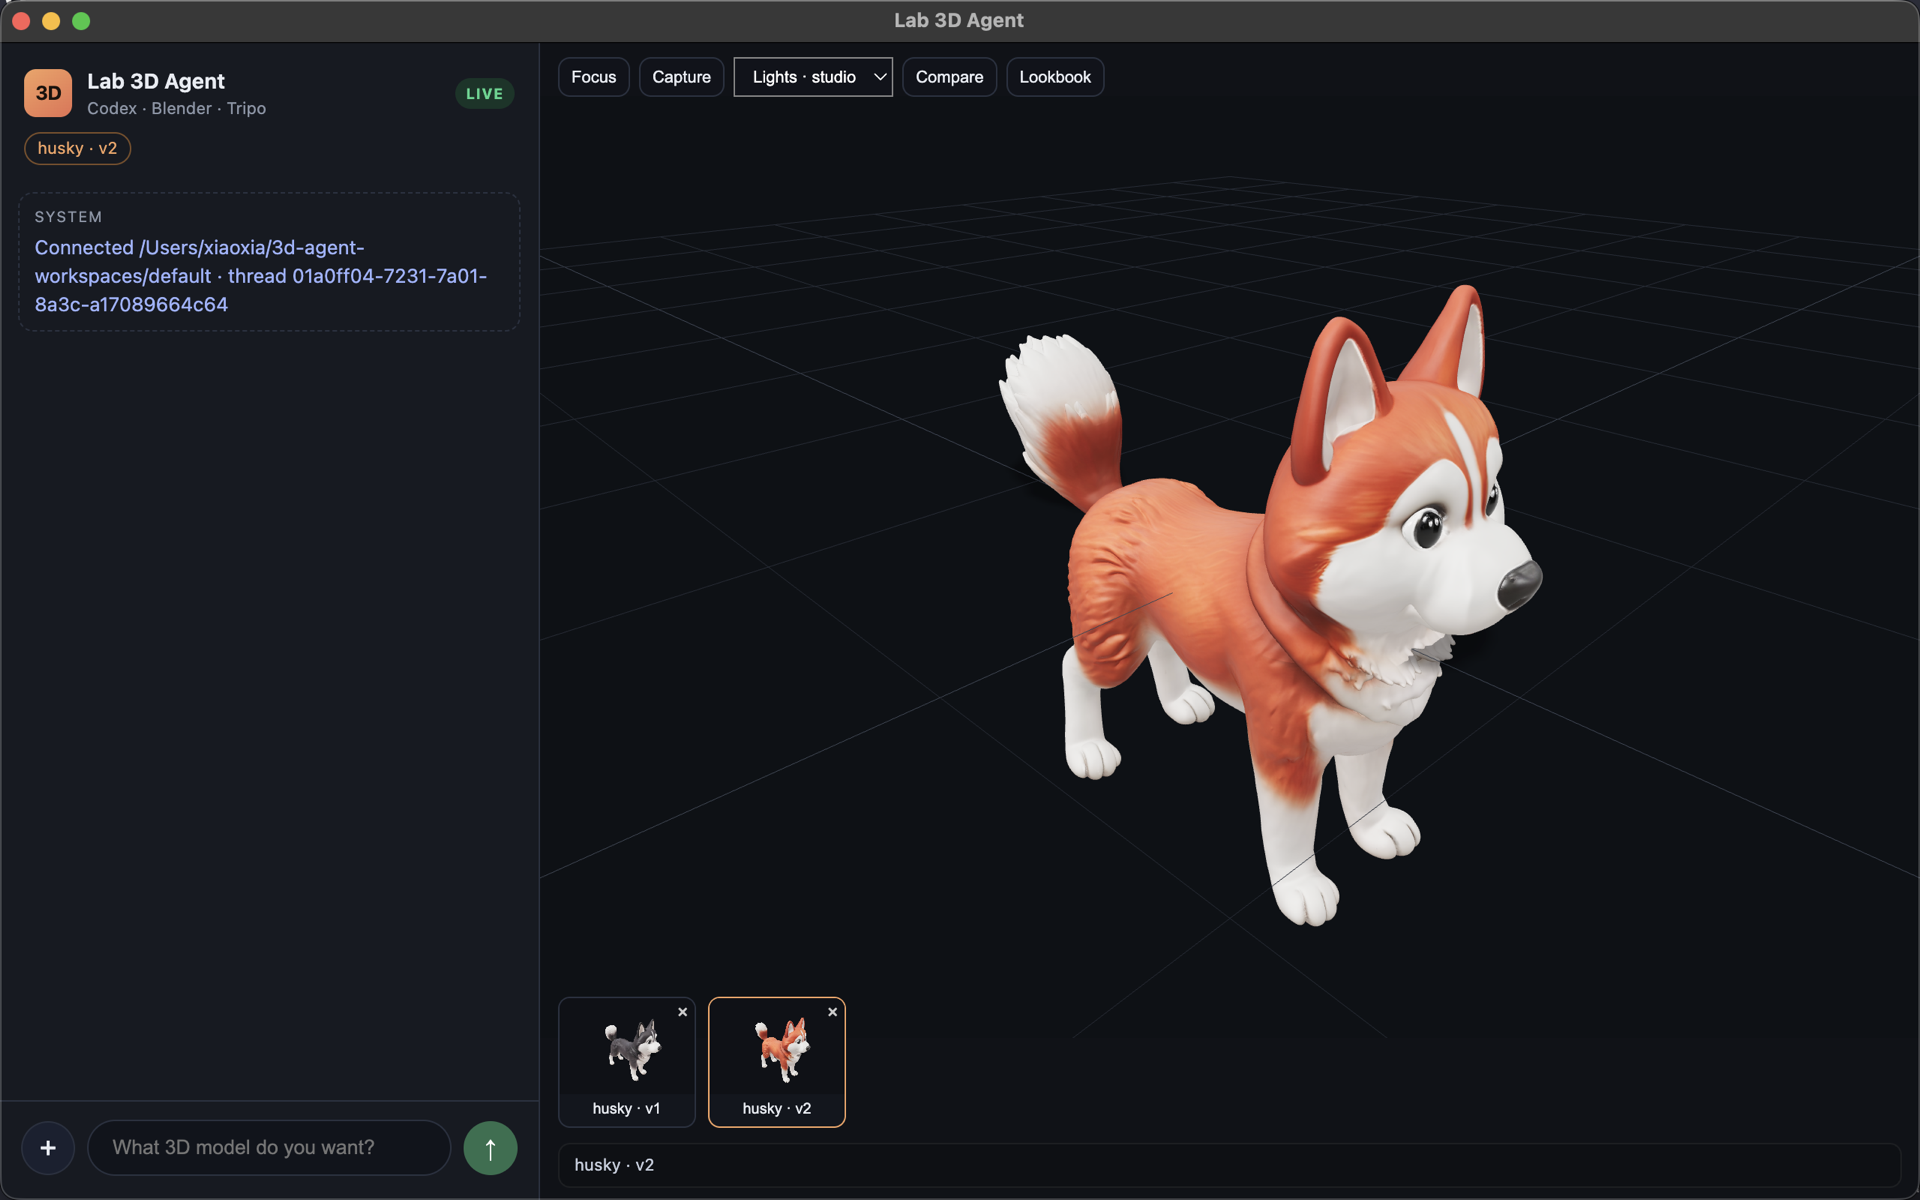
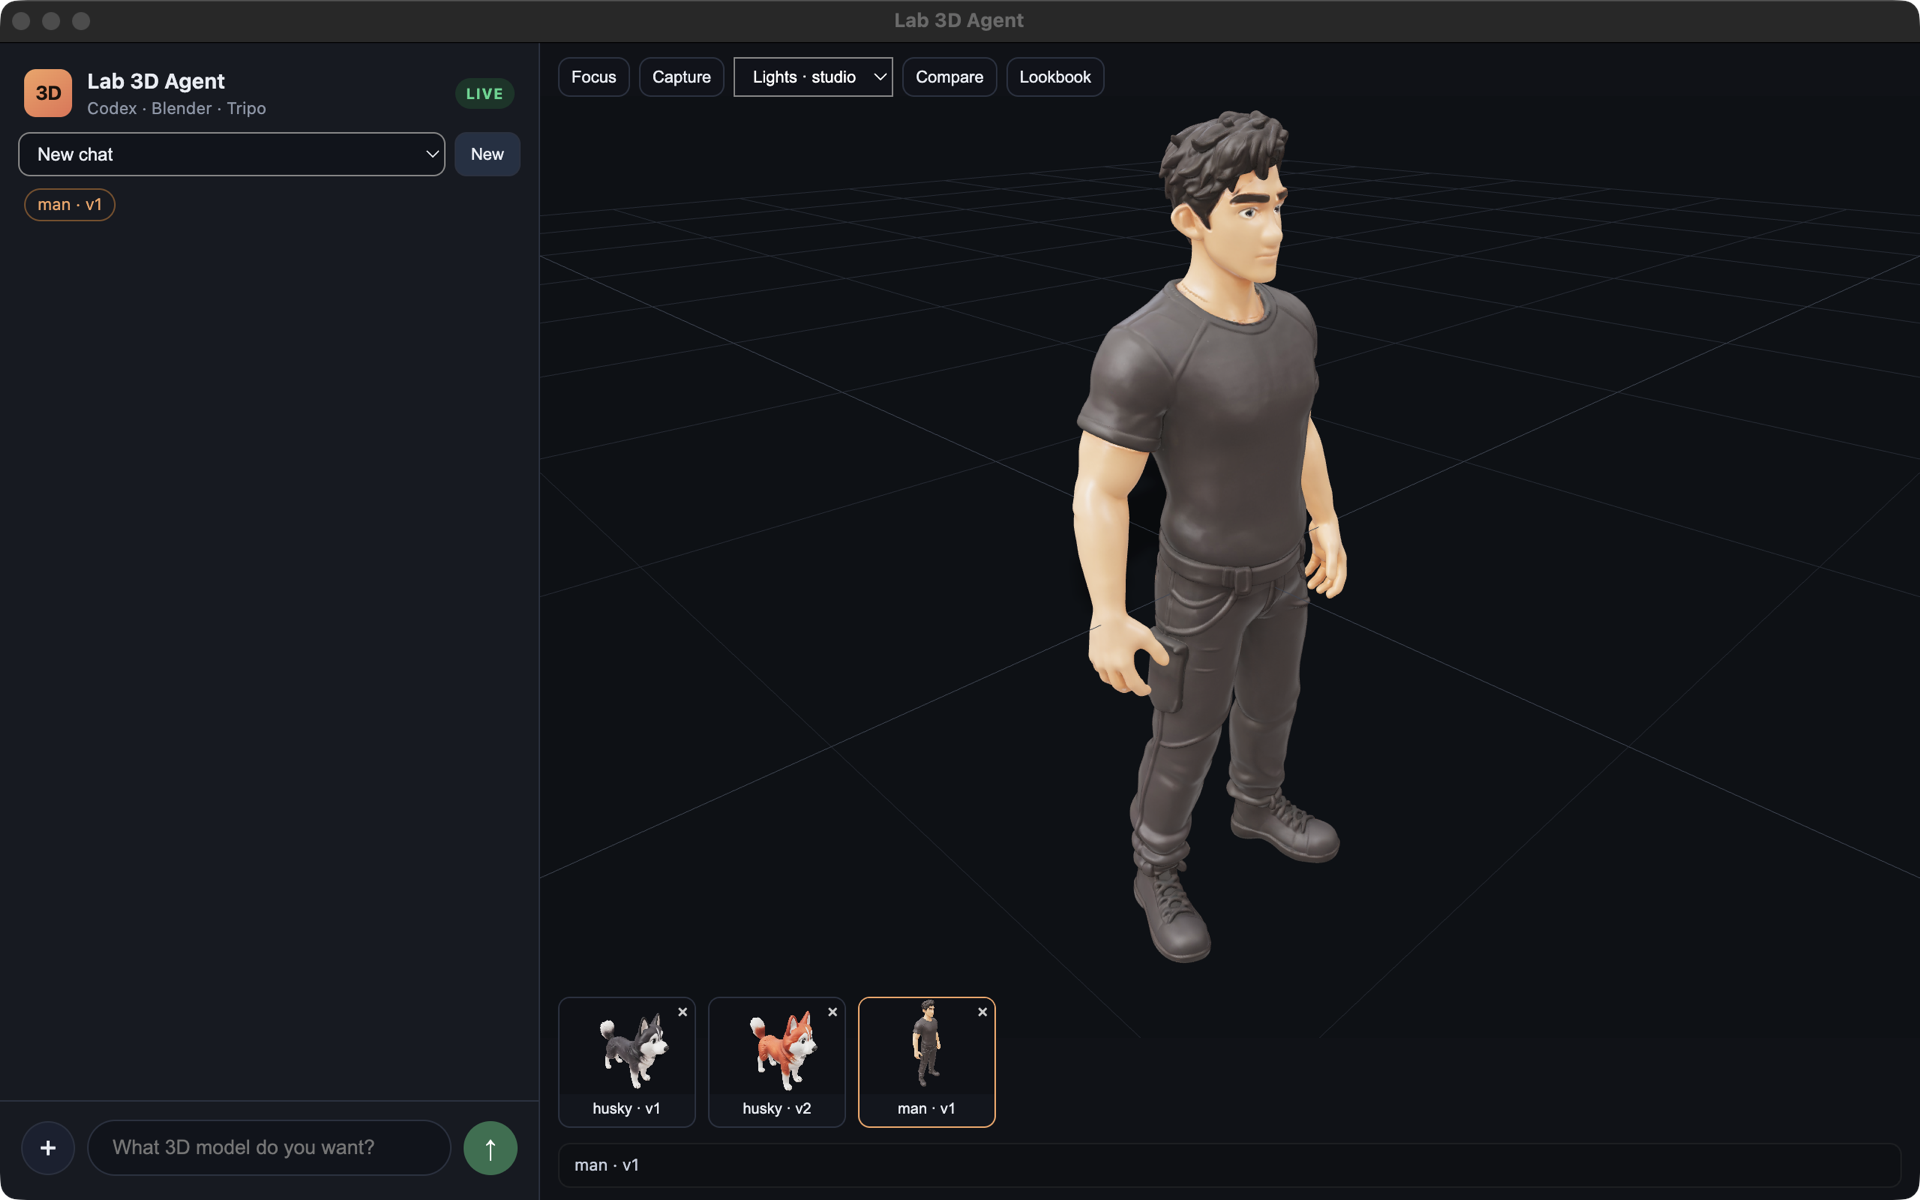
Refresh README screenshots for sessions and the current stage.
Hero shot now shows New/chat picker, filmstrip, and LIVE. Case thumbs
are dark viewport frames of husky v1/v2.

diff --git a/README.md b/README.md
@@ -3,7 +3,7 @@
 Chat on the left. A live GLB stage on the right. You talk; the **host** builds the mesh (Tripo or headless Blender). The LLM only comments — it never launches Blender.
 
 <p align="center">
-  <img src="assets/screenshot.png" alt="Open 3D Agent: husky on the live stage after a fur-color edit" width="920" />
+  <img src="assets/screenshot.png" alt="Open 3D Agent: session picker, live stage, husky v1/v2 and man v1 on the filmstrip" width="920" />
 </p>
 
 <p align="center">
